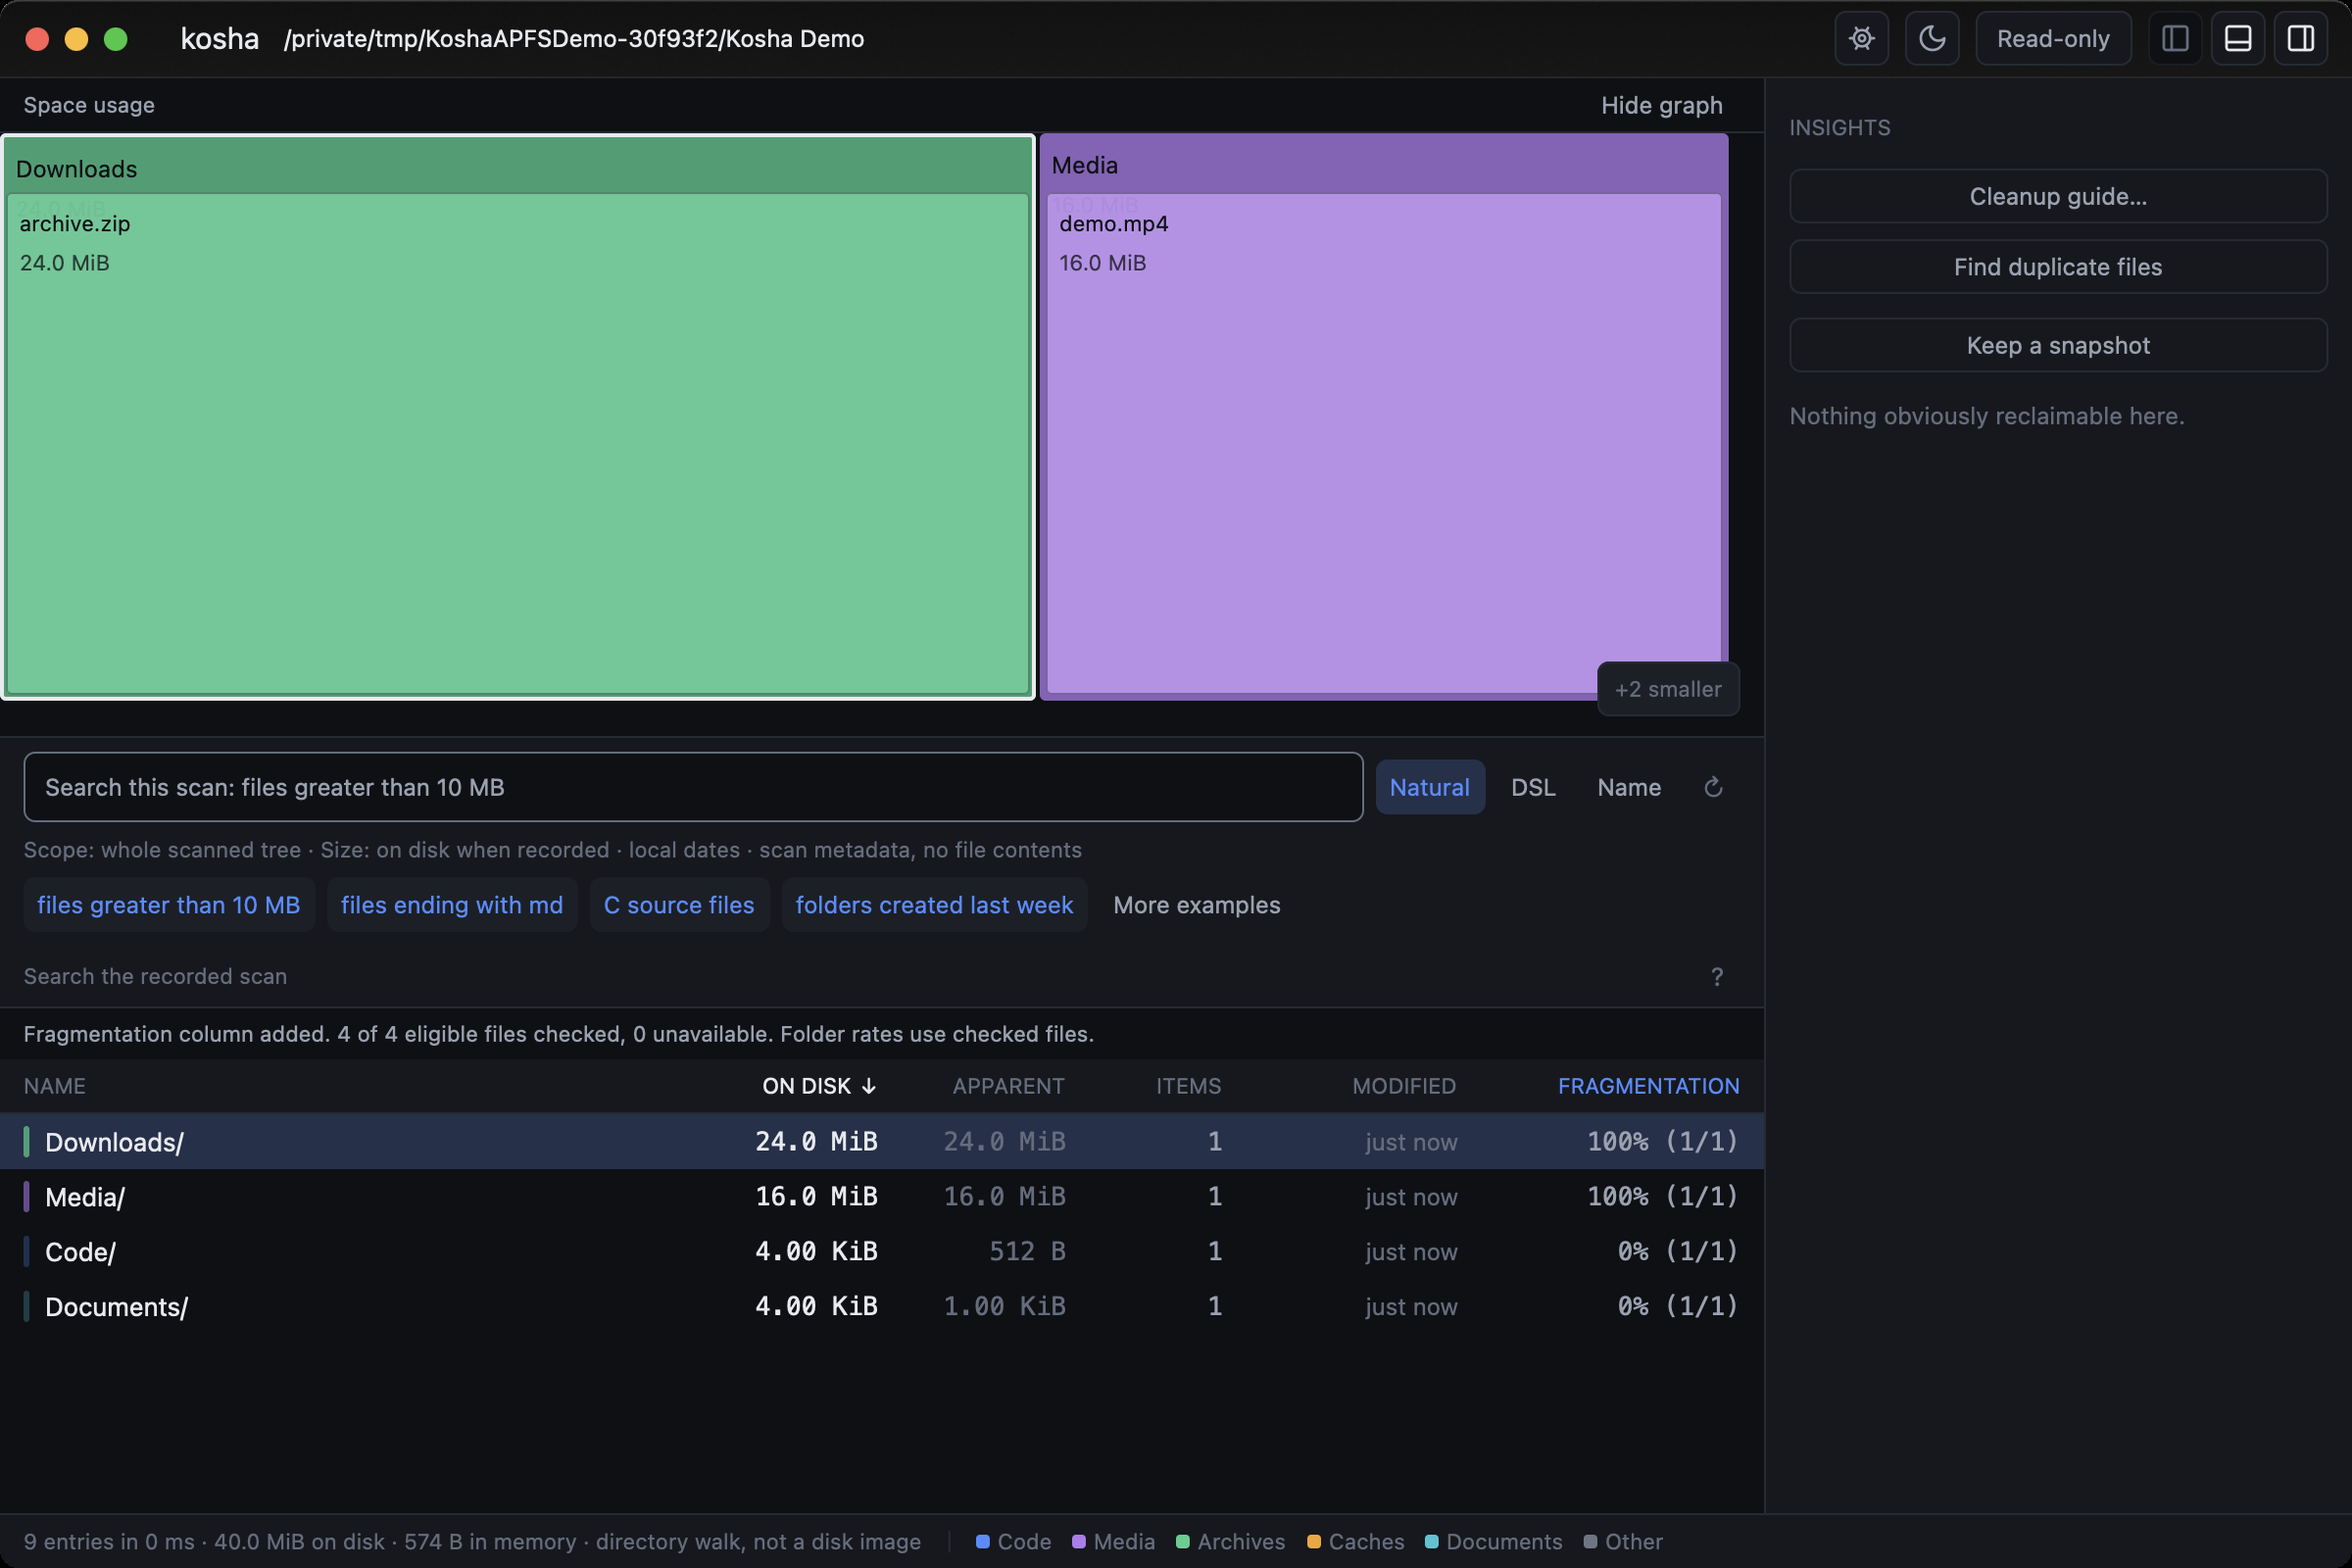
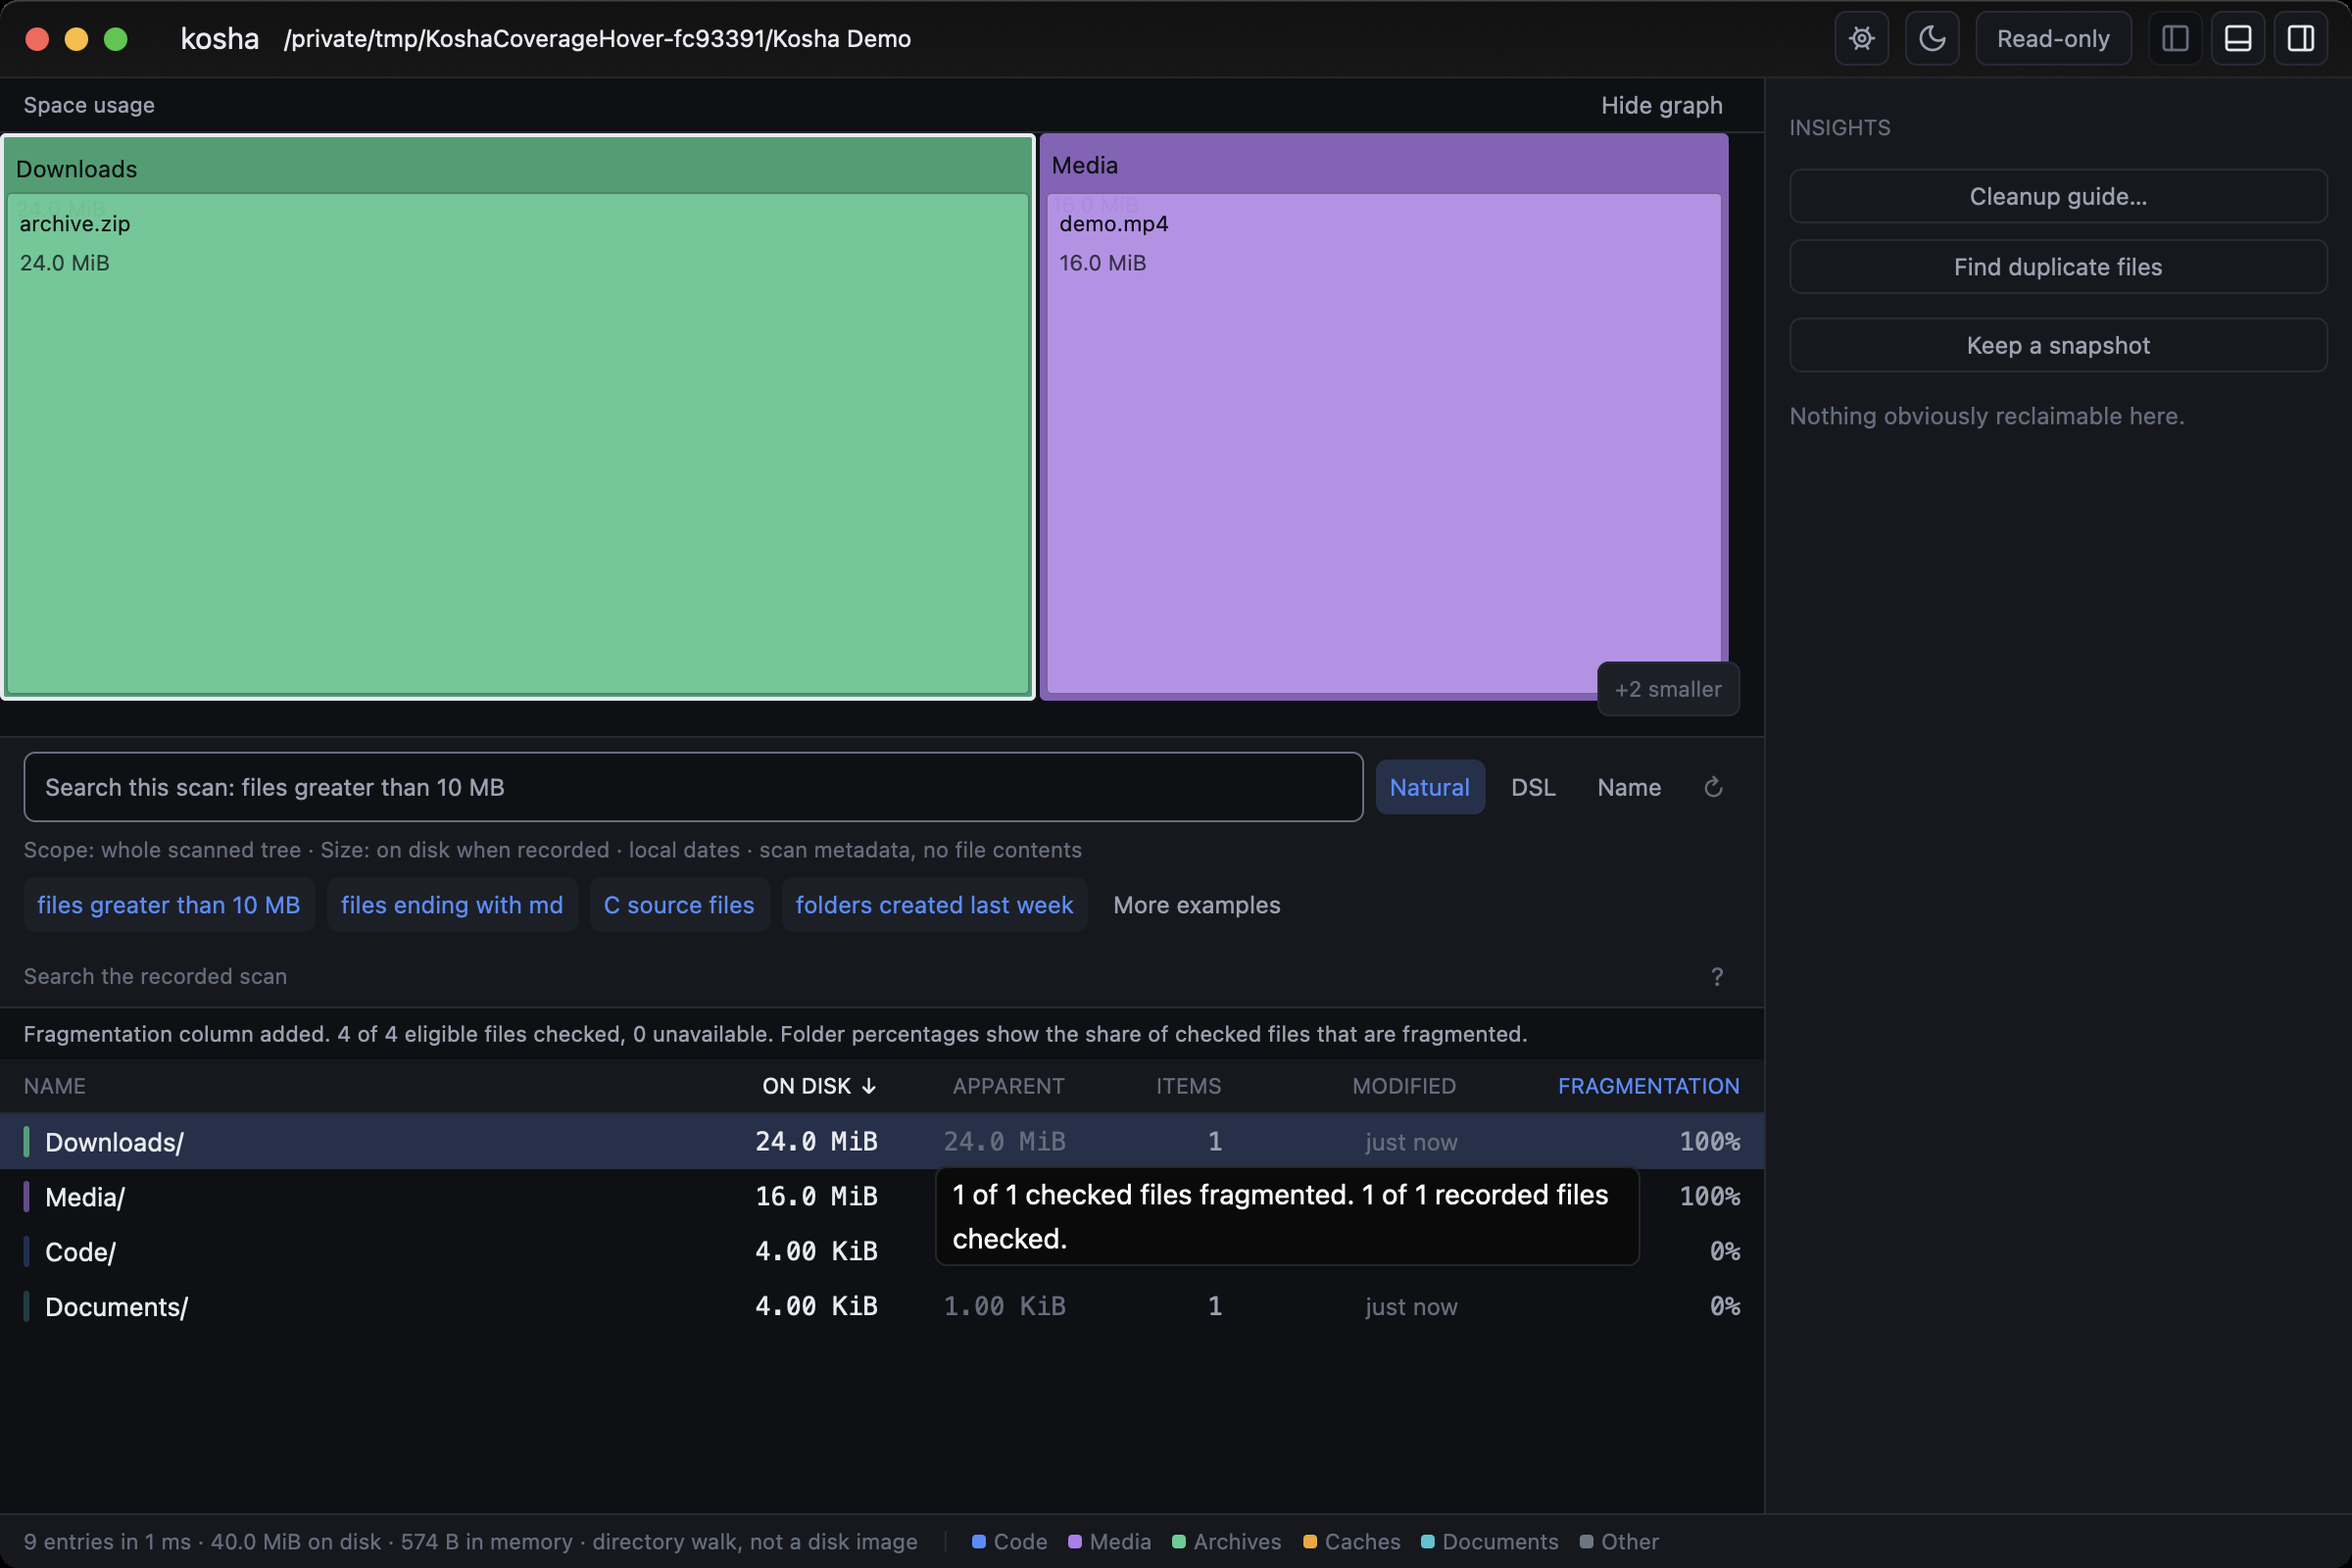
fix(desktop): show fragmentation coverage on hover
Refs #13

diff --git a/crates/kosha-gui/src/state.rs b/crates/kosha-gui/src/state.rs
@@ -710,7 +710,7 @@ impl DeepLayout {
         }
     }
 
-    pub fn cell(&self, tree: &SizeTree, id: NodeId) -> Option<String> {
+    pub fn cell(&self, id: NodeId) -> Option<String> {
         if let Some(file) = self.files.get(&id) {
             let prefix = if file.truncated { ">=" } else { "" };
             return Some(format!(
@@ -720,9 +720,14 @@ impl DeepLayout {
         }
         let &(fragmented, checked) = self.folders.get(&id)?;
         let percent = (fragmented * 100 + checked / 2) / checked;
+        Some(format!("{percent}%"))
+    }
+
+    pub fn folder_coverage(&self, tree: &SizeTree, id: NodeId) -> Option<String> {
+        let &(fragmented, checked) = self.folders.get(&id)?;
+        let total = tree.node(id).subtree_files;
         Some(format!(
-            "{percent}% ({checked}/{})",
-            tree.node(id).subtree_files
+            "{fragmented} of {checked} checked files fragmented. {checked} of {total} recorded files checked."
         ))
     }
 
@@ -1390,11 +1395,21 @@ mod tests {
             ..Default::default()
         };
         let mut layout = DeepLayout::new(&tree, root, report);
-        assert_eq!(layout.cell(&tree, root).as_deref(), Some("50% (2/3)"));
-        assert_eq!(layout.cell(&tree, big).as_deref(), Some("100% (1/1)"));
-        assert_eq!(layout.cell(&tree, mid).as_deref(), Some("0% (1/1)"));
-        assert_eq!(layout.cell(&tree, x).as_deref(), Some("3 extents"));
-        assert!(layout.cell(&tree, empty).is_none());
+        assert_eq!(layout.cell(root).as_deref(), Some("50%"));
+        assert_eq!(layout.cell(big).as_deref(), Some("100%"));
+        assert_eq!(layout.cell(mid).as_deref(), Some("0%"));
+        assert_eq!(layout.cell(x).as_deref(), Some("3 extents"));
+        assert!(layout.cell(empty).is_none());
+        assert_eq!(
+            layout.folder_coverage(&tree, root).as_deref(),
+            Some("1 of 2 checked files fragmented. 2 of 3 recorded files checked.")
+        );
+        assert_eq!(
+            layout.folder_coverage(&tree, mid).as_deref(),
+            Some("0 of 1 checked files fragmented. 1 of 1 recorded files checked.")
+        );
+        assert!(layout.folder_coverage(&tree, x).is_none());
+        assert!(layout.folder_coverage(&tree, empty).is_none());
         layout.descending = Some(false);
         ready.deep_layout = Some(layout);
         ready.rebuild_rows();

diff --git a/crates/kosha-gui/src/app.rs b/crates/kosha-gui/src/app.rs
@@ -6626,7 +6626,7 @@ impl KoshaApp {
     fn render_table(&mut self, palette: &Palette, cx: &mut Context<Self>) -> impl IntoElement {
         let deep_status = self.state.ready().and_then(|ready| ready.visible_deep_layout()).map(|layout| {
             let report = &layout.report;
-            format!("Fragmentation column added. {} of {} eligible files checked, {} unavailable. Folder rates use checked files.",
+            format!("Fragmentation column added. {} of {} eligible files checked, {} unavailable. Folder percentages show the share of checked files that are fragmented.",
                 report.checked.len(), report.eligible, report.unavailable)
         });
         let palette = *palette;
@@ -6761,7 +6761,7 @@ impl KoshaApp {
                     .text_right().text_color(palette.accent).cursor_pointer().child(label)
                     .tooltip(|window,cx| tooltip(concat!(
                         "Files show allocated extents. Folders show the percentage of checked files ",
-                        "that were fragmented, plus checked files over recorded files. ",
+                        "that were fragmented. Hover over a folder percentage for sample coverage. ",
                         "An extent is a contiguous run of allocated blocks."
                     )).build(window,cx))
                     .on_click(cx.listener(|this, _, _, cx| {
@@ -7380,16 +7380,16 @@ fn row(
         )
         .children(ready.visible_deep_layout().map(|layout| {
             div()
+                .id(("fragmentation-cell", id.index()))
                 .w(px(DEEP_LAYOUT_WIDTH))
                 .flex_none()
                 .text_right()
                 .font_family(mono.clone())
                 .text_color(palette.text_dim)
-                .child(
-                    layout
-                        .cell(&ready.tree, id)
-                        .unwrap_or_else(|| "\u{2014}".into()),
-                )
+                .child(layout.cell(id).unwrap_or_else(|| "\u{2014}".into()))
+                .when_some(layout.folder_coverage(&ready.tree, id), |cell, coverage| {
+                    cell.tooltip(move |window, cx| tooltip(coverage.clone()).build(window, cx))
+                })
         }))
         // One click selects, two open — the convention everywhere else, and
         // previously the rows had an id and no handler at all, so clicking a

diff --git a/docs/manual/results-and-search.md b/docs/manual/results-and-search.md
@@ -119,13 +119,15 @@ Rows without a measurement appear after measured rows.
 
 ![Windows Deep Scan table showing sample coverage and the Media folder at 33 percent fragmented with three of three files checked](images/windows-fragmentation-column.png)
 
-![macOS Deep Scan table showing the Fragmentation column after all four eligible files were checked](images/macos-fragmentation-column.png)
+![macOS Deep Scan showing folder percentages and the sample coverage tooltip](images/macos-fragmentation-column.png)
 
-A folder value such as **25% (4/20)** means one of four checked files was
-fragmented, with 20 files in the recorded subtree. Unmeasured rows show a
-dash. Hover over the column heading for an explanation of extents and
-coverage. **Hide fragmentation column** clears the temporary report from the
-table. The report is associated with the current live tree and folder.
+A folder value such as **25%** means one quarter of the checked files were
+fragmented. Hover over the percentage to see how many checked files were
+fragmented and how many of the folder's recorded files were checked. In the
+Windows screenshot from v0.16.0, sample coverage appears in parentheses.
+Unmeasured rows show a dash. Hover over the heading for more about extents.
+**Hide fragmentation column** clears the temporary report from the table.
+The report is associated with the current live tree and folder.
 
 ### Treemap, volume bars, and scan status
 

diff --git a/CHANGELOG.md b/CHANGELOG.md
@@ -2,7 +2,8 @@
 
 ## [Unreleased]
 
-Nothing yet.
+The Deep Scan Fragmentation column shows folder percentages. Hover over
+a percentage to see how many files were fragmented and how many were checked.
 
 ## [0.16.0] — 2026-11-24
 
